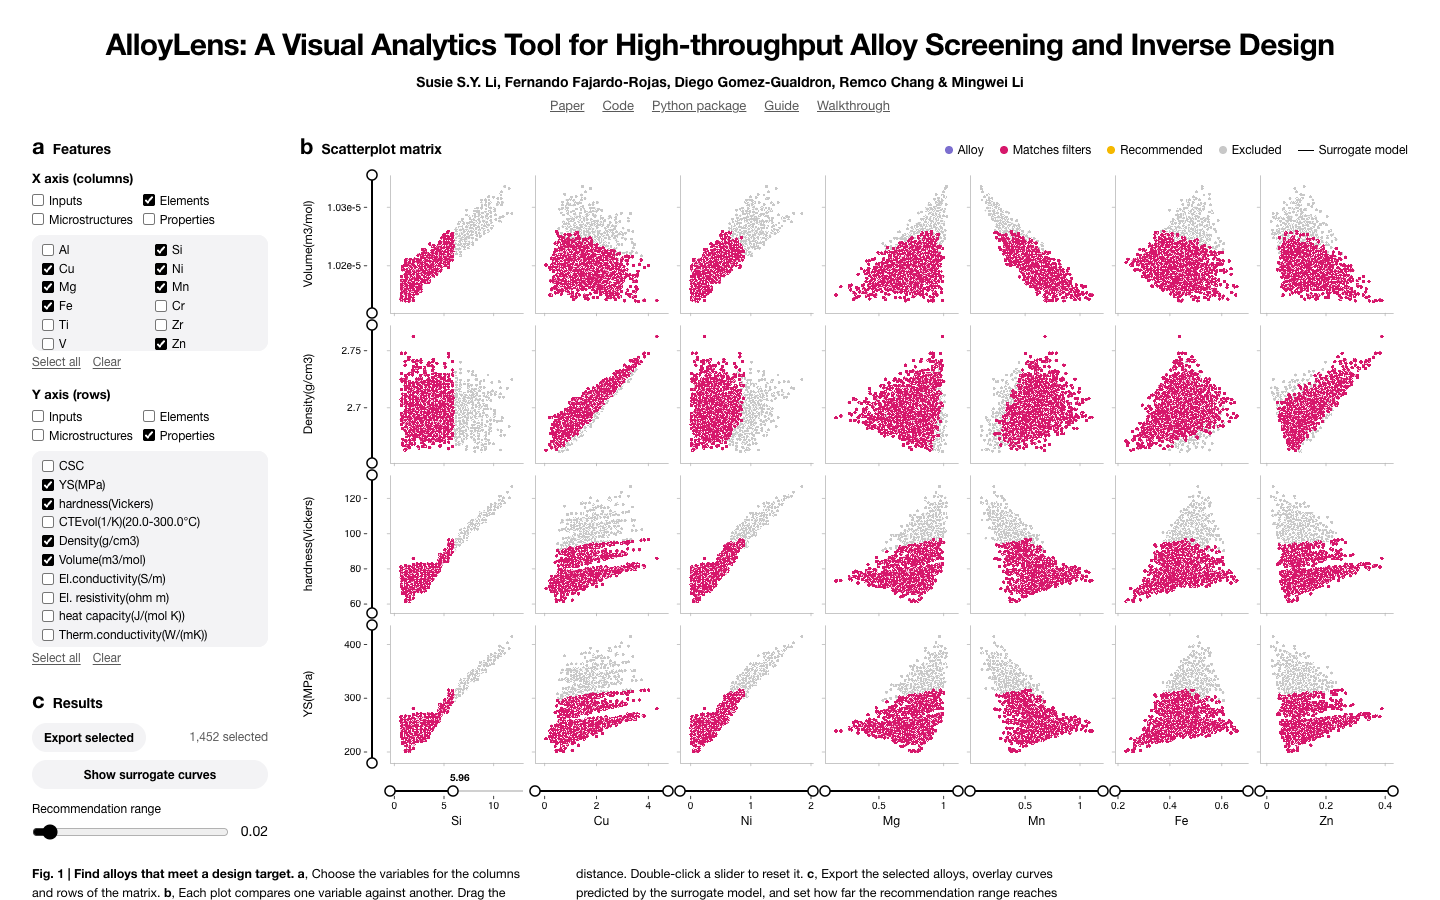
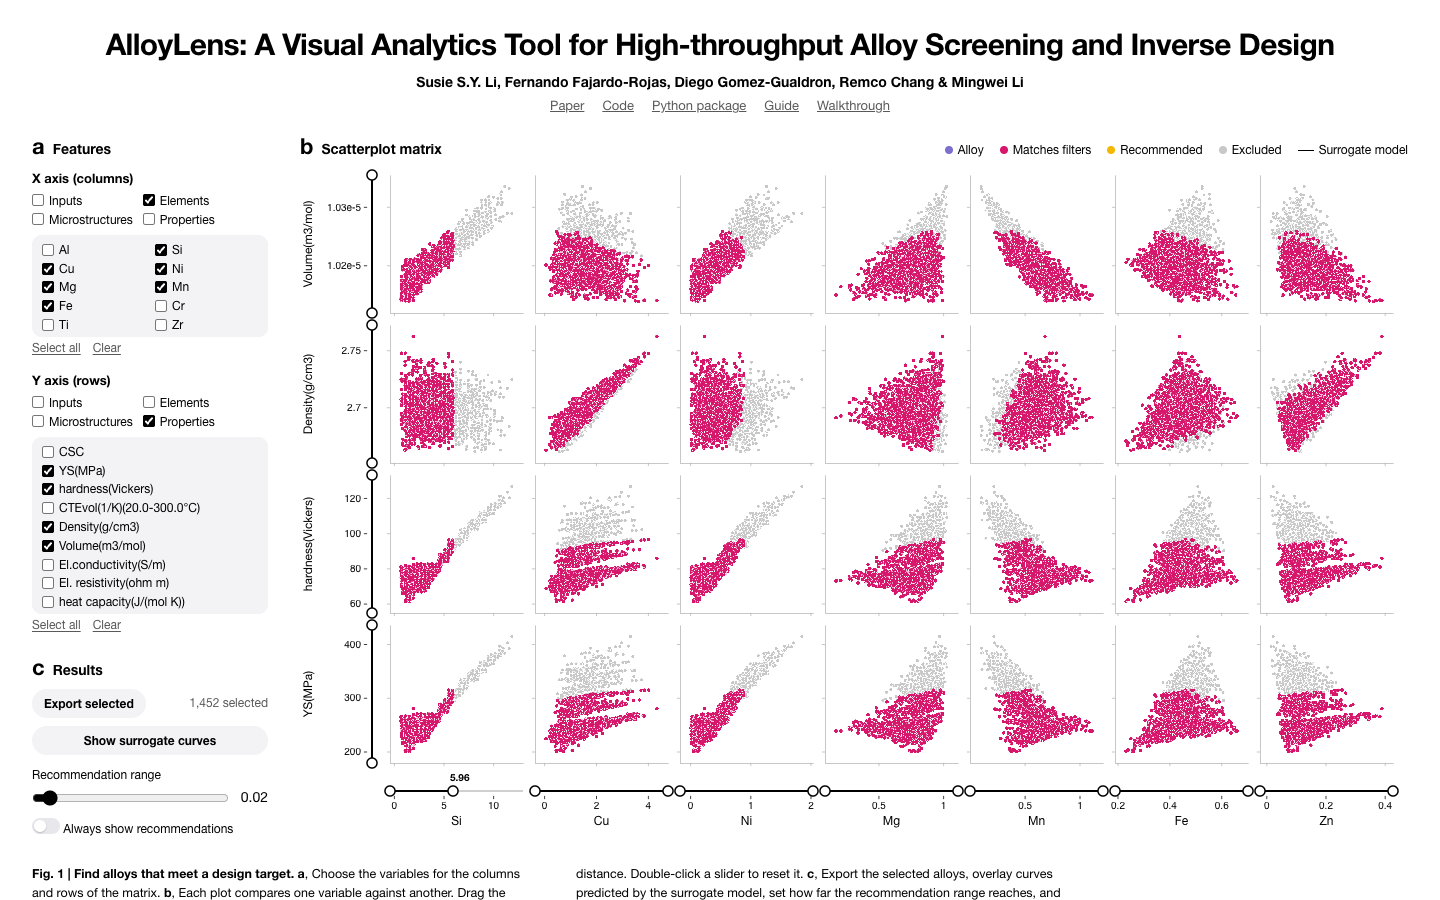
add option to show recs when requirements match

Changed region(s): [[0.0, 0.3733, 0.1562, 0.7467], [0.0, 0.7778, 0.1875, 0.9333], [0.5312, 0.9644, 0.75, 1.0]]

diff --git a/web/js/vis.js b/web/js/vis.js
@@ -1443,59 +1443,63 @@ function highlight_brushed_2(
   subplots,
   row_attrs,
   col_attrs,
-  color_reach = 0.02
+  color_reach = 0.02,
+  always_recommend = false
 ) {
   // record the brushed to data (via crossfilter) and update the color in all sub-scatterplots
-  let filter_nonempty = cross.allFiltered().length > 0;
-  if (filter_nonempty) {
+  let n_matches = cross.allFiltered().length;
+  let any_match = n_matches > 0;
+  let any_excluded = n_matches < data.length;
+  if (any_match && !(always_recommend && any_excluded)) {
     highlight_brushed(data, sc, cross, subplots, row_attrs, col_attrs);
-  } else {
-    // filter returns no data points, color points by distance to the filter box
-    let all_attrs = row_attrs.concat(col_attrs);
-    let attr_extents = Object.fromEntries(
-      zip(
-        all_attrs,
-        all_attrs.map((a) => d3.extent(data, (d) => d[a]))
-      )
-    );
-    data.forEach((d, i) => {
-      // d.brushed = cross.isElementFiltered(i);
-      d.dist = distance_to_cuboid(d, all_attrs, cross.dimensions, attr_extents);
-    });
-
-    //recolor data points
-    let [vmin, vmax] = d3.extent(data, (d) => d.dist);
-    // ---- use user-specified fraction of range ----
-    const reach = color_reach; // fraction in [0,1]
-    //domain for color scale
-    let [cmin, cmax] = [vmin, vmin + reach * (vmax - vmin)];
-    data.forEach((d, i) => {
-      d.brushed = d.dist < cmax;
-    });
-    // color scale (sc) by distance to the filter box
-    sc = d3
-      .scaleLinear()
-      .domain([cmin, cmax])
-      .range([RECOMMENDED, EXCLUDED])
-      .interpolate(d3.interpolateHcl)
-      .clamp(true);
-    let sc_gl = (d) => {
-      let c = sc(d.dist);
-      return [...color2gl(c), 1.0];
-    };
-    let colors = data.map((d) => sc_gl(d));
-    let depths = data.map((d, i) => (d.dist - vmin) / (vmax - vmin + 1e-4)); //-1=near, 1=far
-    let stroke_widths = data.map((d, i) =>
-      d.dist > vmin + color_reach * (vmax - vmin) ? 1 : 0.5
-    );
-    subplots.forEach((subplot_row, i) =>
-      subplot_row.forEach((subplot, j) => {
-        if (row_attrs[i] !== col_attrs[j]) {
-          subplot.recolor(colors, { depths, stroke_widths });
-        }
-      })
-    );
+    return;
   }
+
+  // color the points outside the filters by their distance to the filter box
+  let all_attrs = row_attrs.concat(col_attrs);
+  let attr_extents = Object.fromEntries(
+    zip(
+      all_attrs,
+      all_attrs.map((a) => d3.extent(data, (d) => d[a]))
+    )
+  );
+  data.forEach((d, i) => {
+    d.is_match = any_match && cross.isElementFiltered(i);
+    d.dist = distance_to_cuboid(d, all_attrs, cross.dimensions, attr_extents);
+  });
+
+  let [vmin, vmax] = d3.extent(
+    data.filter((d) => !d.is_match),
+    (d) => d.dist
+  );
+  // ---- use user-specified fraction of range ----
+  let cmax = vmin + color_reach * (vmax - vmin);
+  // with matches on screen, recommendations are shown but not selected
+  data.forEach((d) => {
+    d.brushed = any_match ? d.is_match : d.dist < cmax;
+  });
+  let near_sc = d3
+    .scaleLinear()
+    .domain([vmin, cmax])
+    .range([RECOMMENDED, EXCLUDED])
+    .interpolate(d3.interpolateHcl)
+    .clamp(true);
+  let colors = data.map((d) => [
+    ...color2gl(d.is_match ? C[1] : near_sc(d.dist)),
+    1.0,
+  ]);
+  //-1=near, 1=far
+  let depths = data.map((d) =>
+    d.is_match ? -0.5 : (d.dist - vmin) / (vmax - vmin + 1e-4)
+  );
+  let stroke_widths = data.map((d) => (d.is_match || d.dist <= cmax ? 0.5 : 1));
+  subplots.forEach((subplot_row, i) =>
+    subplot_row.forEach((subplot, j) => {
+      if (row_attrs[i] !== col_attrs[j]) {
+        subplot.recolor(colors, { depths, stroke_widths });
+      }
+    })
+  );
 }
 
 function highlight_brushed(

diff --git a/web/js/widget.js b/web/js/widget.js
@@ -117,8 +117,22 @@ function render({ model, el }) {
     .style("top", `0px`)
     .style("left", `${side_bar_width}px`);
 
+  const paint_points = () =>
+    splom.highlight_brushed_2(
+      splom.data,
+      splom.subplots[0][0].scales.sc,
+      splom.cross,
+      splom.subplots,
+      splom.row_attrs,
+      splom.col_attrs,
+      model.get("knn_delta") ?? 0.02,
+      model.get("always_recommend"),
+    );
+
   // boxes drawn on a plot update the selection the same way the sliders do
   const sync_selection = () => {
+    const none_match = splom.cross.allFiltered().length === 0;
+    if (none_match || model.get("always_recommend")) paint_points();
     model.set(
       "selected",
       data.map((d) => d.brushed),
@@ -219,6 +233,11 @@ function render({ model, el }) {
     }
   });
 
+  model.on("change:always_recommend", () => {
+    paint_points();
+    sync_selection();
+  });
+
   // Re-run KNN coloring if user changes knn_delta
   model.on("change:knn_delta", () => {
     const colorReach = model.get("knn_delta") ?? 0.02;
@@ -231,6 +250,7 @@ function render({ model, el }) {
       splom.row_attrs,
       splom.col_attrs,
       colorReach,
+      model.get("always_recommend"),
     );
 
     // update selection + distances on the model
@@ -412,6 +432,7 @@ function draw_bottom_sliders(svg, splom, model, subplot_width) {
       splom.row_attrs,
       splom.col_attrs,
       colorReach,
+      model.get("always_recommend"),
     );
     for (const row of splom.subplots) {
       for (const sp of row) {
@@ -705,6 +726,7 @@ function draw_side_sliders(svg, splom, model) {
       splom.row_attrs,
       splom.col_attrs,
       colorReach,
+      model.get("always_recommend"),
     );
     for (const row of splom.subplots) {
       for (const sp of row) {

diff --git a/web/index.html b/web/index.html
@@ -173,6 +173,10 @@
               />
               <span id="knn-delta-value">0.02</span>
             </div>
+            <label class="switch">
+              <input type="checkbox" role="switch" id="always-recommend" />
+              Always show recommendations
+            </label>
           </div>
         </section>
       </aside>
@@ -203,8 +207,8 @@
       Alloys inside every range turn magenta. If none fit, the closest alloys
       are recommended in yellow, fading to grey with distance. Double-click
       a slider to reset it. <b>c</b>, Export the selected alloys, overlay curves
-      predicted by the surrogate model, and set how far the recommendation range
-      reaches when no alloy fits. <i>n</i> = 2,000 alloys sampled from the
+      predicted by the surrogate model, set how far the recommendation range
+      reaches, and choose whether recommendations stay on alongside matches. <i>n</i> = 2,000 alloys sampled from the
       <a href="https://zenodo.org/records/15189444">2025 IEEE SciVis Contest dataset</a>
       by Bugelnig and Requena (<a
         href="https://creativecommons.org/licenses/by/4.0/"

diff --git a/web/css/ui.css b/web/css/ui.css
@@ -263,10 +263,55 @@ button {
   color: var(--ink);
 }
 
-.threshold label {
+.threshold > label:not(.switch) {
   display: block;
   margin-bottom: 4px;
   font-size: 12px;
+}
+
+.switch {
+  display: flex;
+  align-items: center;
+  gap: 8px;
+  margin-top: 10px;
+  font-size: 12px;
+}
+.switch input {
+  position: relative;
+  flex: none;
+  width: 28px;
+  height: 16px;
+  margin: 0;
+  border-radius: 999px;
+  background: var(--soft-hover);
+  appearance: none;
+  -webkit-appearance: none;
+  cursor: pointer;
+  transition: background 0.15s ease;
+}
+.switch input::before {
+  content: "";
+  position: absolute;
+  top: 2px;
+  left: 2px;
+  width: 12px;
+  height: 12px;
+  border-radius: 50%;
+  background: var(--paper);
+  box-shadow: 0 1px 2px rgba(0, 0, 0, 0.3);
+  transition: transform 0.15s ease;
+}
+.switch input:checked {
+  background: var(--ink);
+}
+.switch input:checked::before {
+  transform: translateX(12px);
+}
+@media (prefers-reduced-motion: reduce) {
+  .switch input,
+  .switch input::before {
+    transition: none;
+  }
 }
 
 /* Matrix */

diff --git a/web/js/app.js b/web/js/app.js
@@ -56,6 +56,11 @@ if (knnDeltaInput) {
   });
 }
 
+const alwaysRecommend = document.getElementById("always-recommend");
+alwaysRecommend.addEventListener("change", () => {
+  model?.set("always_recommend", alwaysRecommend.checked);
+});
+
 // group toggles
 const groupXCheckboxes = Array.from(document.querySelectorAll(".group-x"));
 const groupYCheckboxes = Array.from(document.querySelectorAll(".group-y"));
@@ -342,6 +347,7 @@ function applySelection() {
     ),
     surrogate: true,
     knn_delta: knnDelta,
+    always_recommend: alwaysRecommend.checked,
   });
 
   model.on("change:selected", () => {

diff --git a/web/tutorial.html b/web/tutorial.html
@@ -36,8 +36,10 @@
           <h2>Review recommendations</h2>
           <p>
             If no alloy fits your ranges, the closest ones are recommended in
-            yellow. Use the recommendation range in panel c to control how far from your
-            ranges to look.
+            yellow. Use the recommendation range in panel c to control how far
+            from your ranges to look, and turn on Always show recommendations to
+            see near misses alongside matches. Recommended alloys aren't
+            exported while any alloy matches.
           </p>
         </li>
         <li>

diff --git a/web/js/tutorial.js b/web/js/tutorial.js
@@ -43,7 +43,7 @@
       element: ".threshold",
       title: "Widen the search",
       intro:
-        "If no alloy fits, the closest ones are recommended in yellow. This sets how far from your ranges to look.",
+        "If no alloy fits, the closest ones are recommended in yellow. Set how far to look, or turn on the switch to see them alongside matches.",
       position: "right",
     },
     {
